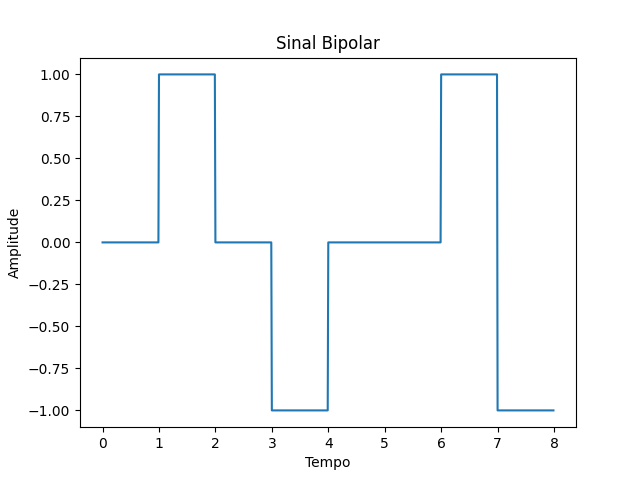
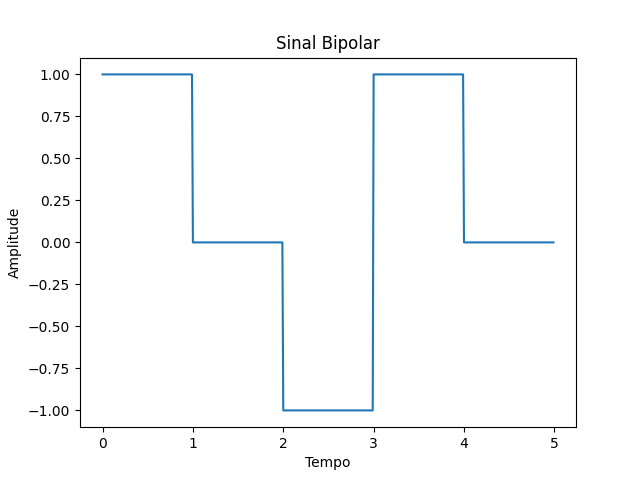
finish/ terminado todos os geradores de onda do trabalho ask , fsk e psk forma finalizados hoje

diff --git a/Funcao_Grafica/GeradorDeOndas.py b/Funcao_Grafica/GeradorDeOndas.py
@@ -1,0 +1,108 @@
+import matplotlib.pyplot as plt
+from Modulacao.analogico import *
+from Modulacao.digital import * 
+from config import get_path
+
+
+class GeradorDeOndas:
+
+    def __init__(self,V):
+        self.bit_stream = []
+        self.energia = V
+        self.Digital = False
+        self.precisao = 100
+        self.frequency = 1
+        self.frequency2 = 2
+        self.GeradorDeOndasDigitais = SignalGeneratorDigital()
+        self.GeradorDeOndasAnalogicas = SignalGeneratorAnalogic()
+
+    # configuracoes gets e sets
+
+    def BitStream(self, bit_stream):
+        self.bit_stream = bit_stream
+        self.GeradorDeOndasDigitais.setBitStream(bit_stream)
+    
+    def SetEnergia(self, energia):
+        self.energia = energia
+
+    def SetPrecisao(self, precisao):
+        self.precisao = precisao
+    
+    def SetFrequency(self, frequency):
+        self.frequency = frequency
+    
+    def SetFrequency2(self, frequency2):
+        self.frequency2 = frequency2
+
+    # funcoes de plotagem
+
+    def plotar_sinal(self, sinal ,title, eixo_x, eixo_y , tempo = []):
+        nameFile = title
+
+        if self.Digital: 
+            path = get_path() + "/ImagensPlotadas/Digitais/" + nameFile + ".png" 
+        else:
+            path = get_path() + "/ImagensPlotadas/Analogicas/" + nameFile + ".png"
+
+        plt.plot(tempo , sinal)
+        plt.title(title)
+        plt.xlabel(eixo_x)
+        plt.ylabel(eixo_y)
+
+        plt.savefig(path,format='png')
+        plt.close()
+
+    def GerarOndaNRZ(self):
+        x , y = self.GeradorDeOndasDigitais.NRZ()
+        self.Digital = True
+        self.plotar_sinal(y, "Sinal NRZ", "Tempo", "Amplitude" ,x)
+
+    def GerarOndaManchester(self):
+        x , y = self.GeradorDeOndasDigitais.Manchester()
+        self.Digital = True
+        self.plotar_sinal(y, "Sinal Manchester", "Tempo", "Amplitude",x)
+
+    def GerarOndaBipolar(self):
+        x , y = self.GeradorDeOndasDigitais.Bipolar()
+        self.Digital = True
+        self.plotar_sinal(y, "Sinal Bipolar", "Tempo", "Amplitude",x)
+
+    def SetASK(self):
+        x , y = self.GeradorDeOndasAnalogicas.Ask()
+        self.Digital = False
+        self.plotar_sinal(y, "Sinal ASK", "Tempo", "Amplitude",x)
+
+    def SetFSK(self):
+        x , y = self.GeradorDeOndasAnalogicas.FSK()
+        self.Digital = False
+        self.plotar_sinal(y, "Sinal FSK", "Tempo", "Amplitude",x)
+
+    def SetPSK(self):
+        x , y = self.GeradorDeOndasAnalogicas.PSK()
+        self.Digital = False
+        self.plotar_sinal(y, "Sinal PSK", "Tempo", "Amplitude",x)
+
+    def GerarOndaDigitais (self) :
+        # configura a onda digital
+        self.GeradorDeOndasDigitais.setV(self.energia)
+        self.GeradorDeOndasDigitais.setBitStream(self.bit_stream)
+        self.GeradorDeOndasDigitais.setPointsNumber(self.precisao)
+        # gera as ondas digitais
+        self.GerarOndaNRZ()
+        self.GerarOndaManchester()
+        self.GerarOndaBipolar()
+
+    def GerarOndaAnalogicas (self) :
+        # configura a onda analogica
+        self.GeradorDeOndasAnalogicas.SetBitStream(self.bit_stream)
+        self.GeradorDeOndasAnalogicas.SetAmplitude(self.energia)
+        self.GeradorDeOndasAnalogicas.SetPointsNumber(self.precisao)
+        self.GeradorDeOndasAnalogicas.SetFrequency(self.frequency)#1hz
+        self.GeradorDeOndasAnalogicas.SetFrequency2(self.frequency2)#2hz
+        # gera as ondas analogicas
+        self.SetASK()
+        self.SetFSK()
+        self.SetPSK()
+        
+        
+    

diff --git a/Modulacao/analogico.py b/Modulacao/analogico.py
@@ -1,17 +1,89 @@
 import numpy as np
 
-def ask(A, f , bit_stream):
-  size = len(bit_stream)
-  signal = np.zeros(size*100)
-  t = np.arange(0, size*100 ,1/100)
-  
-  for i in range(size):
-    for j in range(100):
-      signal[j*i] = 1
+class SignalGeneratorAnalogic:
+    def __init__(self):
+      self.Amplitude = 1
+      self.Frequency = 1
+      self.Frequency2 = 2
+      self.bit_stream = []
+      self.size = 0
+      self.time = 0
+      self.pointsNumber = 100
+      self.signalAsk = []
+
+    #os 3 metodos abaixo sao a configuracao inicial para usar o sistema de modulacao 
+    def SetBitStream(self, bit_stream):
+        self.bit_stream = bit_stream
+        self.size = len(bit_stream)
+        self.time = np.arange(0, self.size, 1/self.pointsNumber)
+
+    def SetAmplitude(self, Amplitude):
+        self.Amplitude = Amplitude
+
+    def SetPointsNumber(self, pointsNumber):
+        self.pointsNumber = pointsNumber
+        self.time = np.arange(0, self.size, 1/self.pointsNumber) 
+
+    def SetFrequency(self, Frequency):
+        self.Frequency = Frequency
+
+    def SetFrequency2(self, Frequency):
+        self.Frequency2 = Frequency
+
+    def Ask(self):
+        aux = 0 
+        signal = np.zeros(self.size * self.pointsNumber).astype(float)
+
+        for i in range(self.size):
+            if self.bit_stream[i] == 1:
+                for i in range(100):
+                    signal[aux] = self.Amplitude * np.sin(2 * np.pi * self.Frequency * self.time[aux])
+                    aux += 1
+            else:
+                for i in range(100):
+                    signal[aux] = 0
+                    aux += 1
+                    
+        self.signalAsk = signal
+
+        return self.time, signal              
+
+    def getAsk(self):
+        return self.time, self.signalAsk
+    
+    def FSK(self):
+
+        aux = 0 
+        signal = np.zeros(self.size * self.pointsNumber).astype(float)
+
+        for i in range(self.size):
+            if self.bit_stream[i] == 1:
+                for i in range(100):
+                    signal[aux] = self.Amplitude * np.sin(2 * np.pi * self.Frequency2 * self.time[aux])
+                    aux += 1
+            else:
+                for i in range(100):
+                    signal[aux] = self.Amplitude * np.sin(2 * np.pi * self.Frequency * self.time[aux])
+                    aux += 1
+                    
+        return self.time, signal
+    
+    def getFSK(self):
+        return self.time, self.signalFSK
+    
+    def PSK(self):
+        aux = 0
+        signal = np.zeros(self.size * self.pointsNumber).astype(float)
+
+        for i in range(self.size):
+
+            if self.bit_stream[i] == 1:
+                for i in range(100):
+                    signal[aux] = self.Amplitude * np.sin(2 * np.pi * self.Frequency * self.time[aux])
+                    aux += 1
+            else:
+                for i in range(100):
+                    signal[aux] = self.Amplitude * np.sin(2 * np.pi * self.Frequency * self.time[aux]  + np.pi)
+                    aux += 1
         
-     
-    
-
-  return t , signal
-    
-
+        return self.time, signal

diff --git a/Modulacao/digital.py b/Modulacao/digital.py
@@ -4,14 +4,16 @@ from math import floor
 import numpy as np
 from math import floor
 
-class SignalGenerator:
-    def __init__(self, bit_stream, V):
-        self.bit_stream = bit_stream
-        self.Vmin = -V
-        self.Vmax = V
+class SignalGeneratorDigital:
+    def __init__(self):
+        self.bit_stream = []
+        self.Vmin = -1
+        self.Vmax = 1
         self.size = 0
         self.pointsNumber = 100
         self.time = 0
+
+    #setup methods
 
     def setBitStream(self, bit_stream):
         self.bit_stream = bit_stream
@@ -19,12 +21,13 @@ class SignalGenerator:
         self.time = np.arange(0, self.size, 1/self.pointsNumber)
 
     def setV(self, V):
-        self.Vmin = V
-        self.Vmax = -V
+        self.Vmin = -V
+        self.Vmax = V
 
     def setPointsNumber(self, pointsNumber):
         self.pointsNumber = pointsNumber
         self.time = np.arange(0, self.size, 1/self.pointsNumber)
+
 
     def NRZ(self):
         

diff --git a/main.py b/main.py
@@ -1,14 +1,16 @@
-from Grafica.GeradorDeOndas import GeradorDeOndas
+from Funcao_Grafica.GeradorDeOndas import GeradorDeOndas
 
 def main():
 
     ondas = GeradorDeOndas(1)
 
-    ondas.BitStream([0,1,0,1,0,0,1,1])
+    ondas.BitStream([1,0,1,1,0])
 
-    ondas.GerarOnda()
+    ondas.GerarOndaDigitais()
 
-    #plotar_sinal(y, "Sinal ASK", "Tempo", "Amplitude",x,"analogico")
+    ondas.SetFrequency(1)
+
+    ondas.GerarOndaAnalogicas()   
 
 if __name__ == '__main__':
     main()
